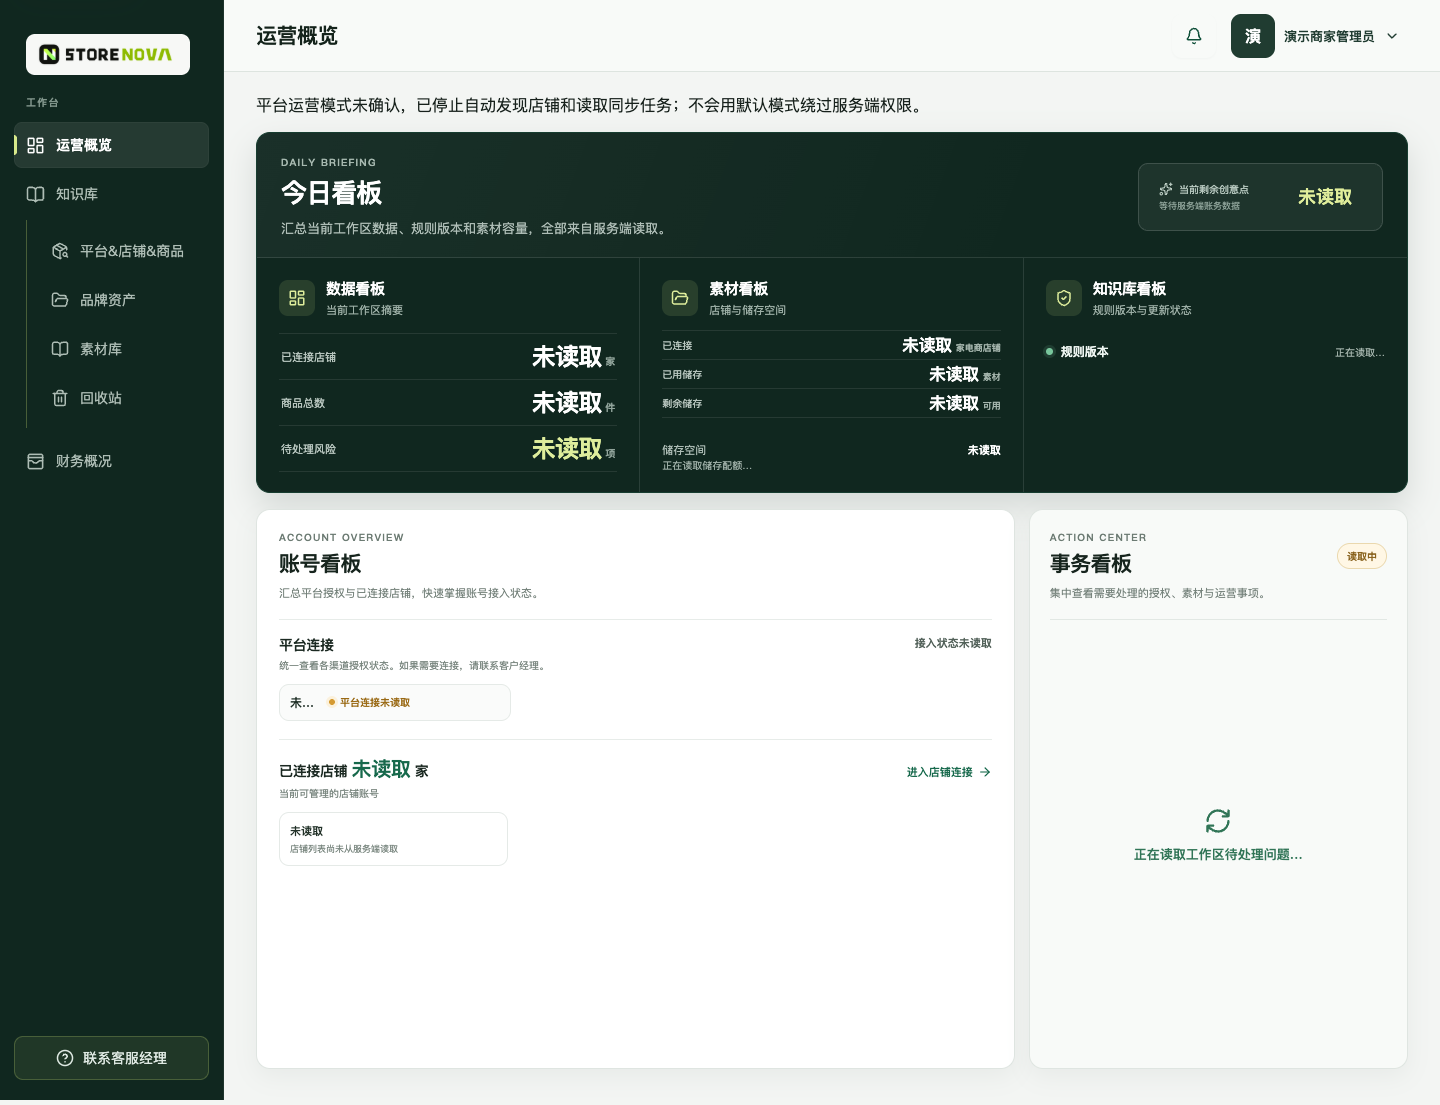
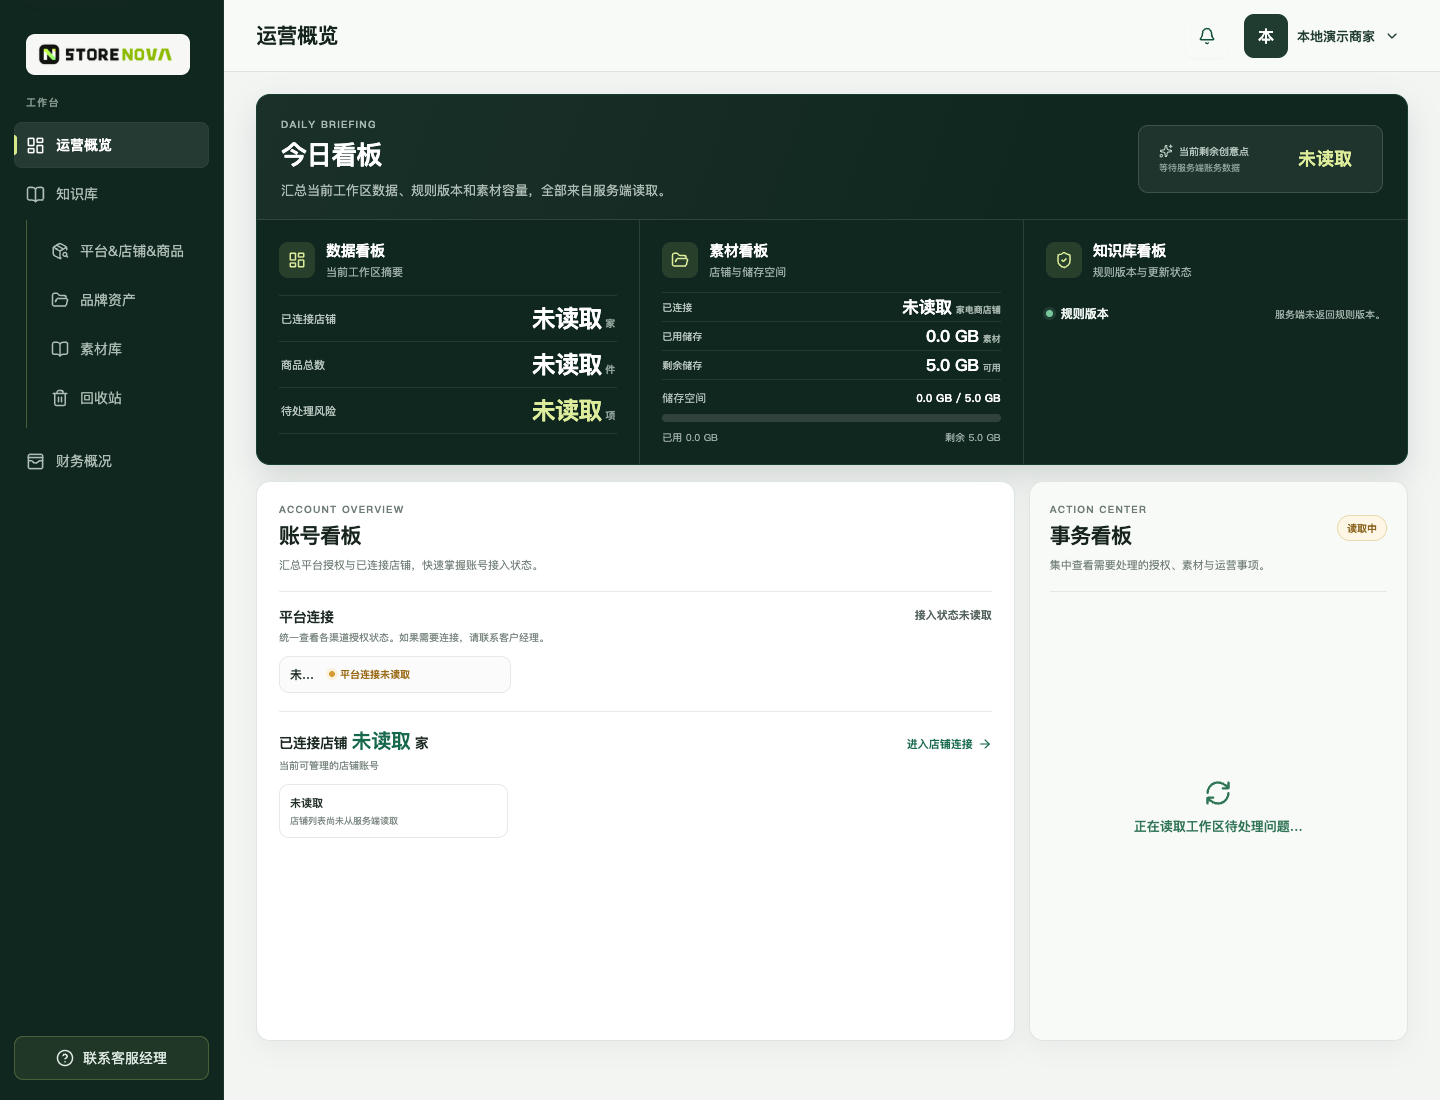
fix: grant local entitlement cursor runtime access

diff --git a/apps/ops-console/src/pages/CustomerDeliveryPage.test.tsx b/apps/ops-console/src/pages/CustomerDeliveryPage.test.tsx
@@ -83,7 +83,8 @@ describe("customer delivery workspace selection", () => {
     expect(isCustomerDeliveryRevisionConflict(new Error("network unavailable"))).toBe(false);
     const checklistSave = pageSource.slice(pageSource.indexOf("const saveChecklist ="), pageSource.indexOf("const createRecord ="));
     const trainingSave = pageSource.slice(pageSource.indexOf("const saveTraining ="), pageSource.indexOf("const openDeliveryAsset ="));
-    expect(checklistSave).not.toContain("customerDeliveryClient.get");
+    const checklistMutation = checklistSave.slice(0, checklistSave.indexOf("// The checklist write is already durable"));
+    expect(checklistMutation).not.toContain("customerDeliveryClient.get");
     expect(trainingSave).not.toContain("customerDeliveryClient.get");
     expect(checklistSave).toContain("const result = await persist(currentRecord)");
     expect(trainingSave).toContain("const updated = await persist(record)");
